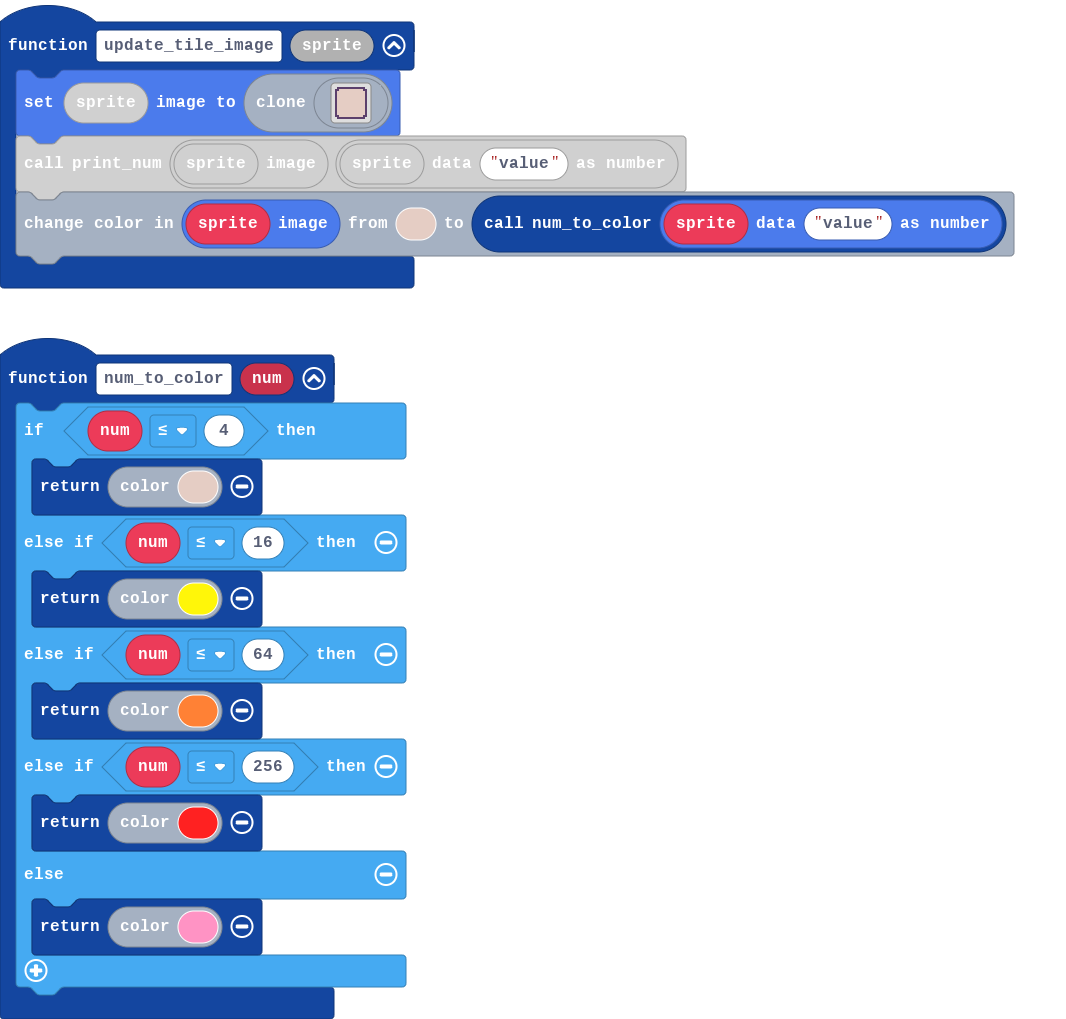
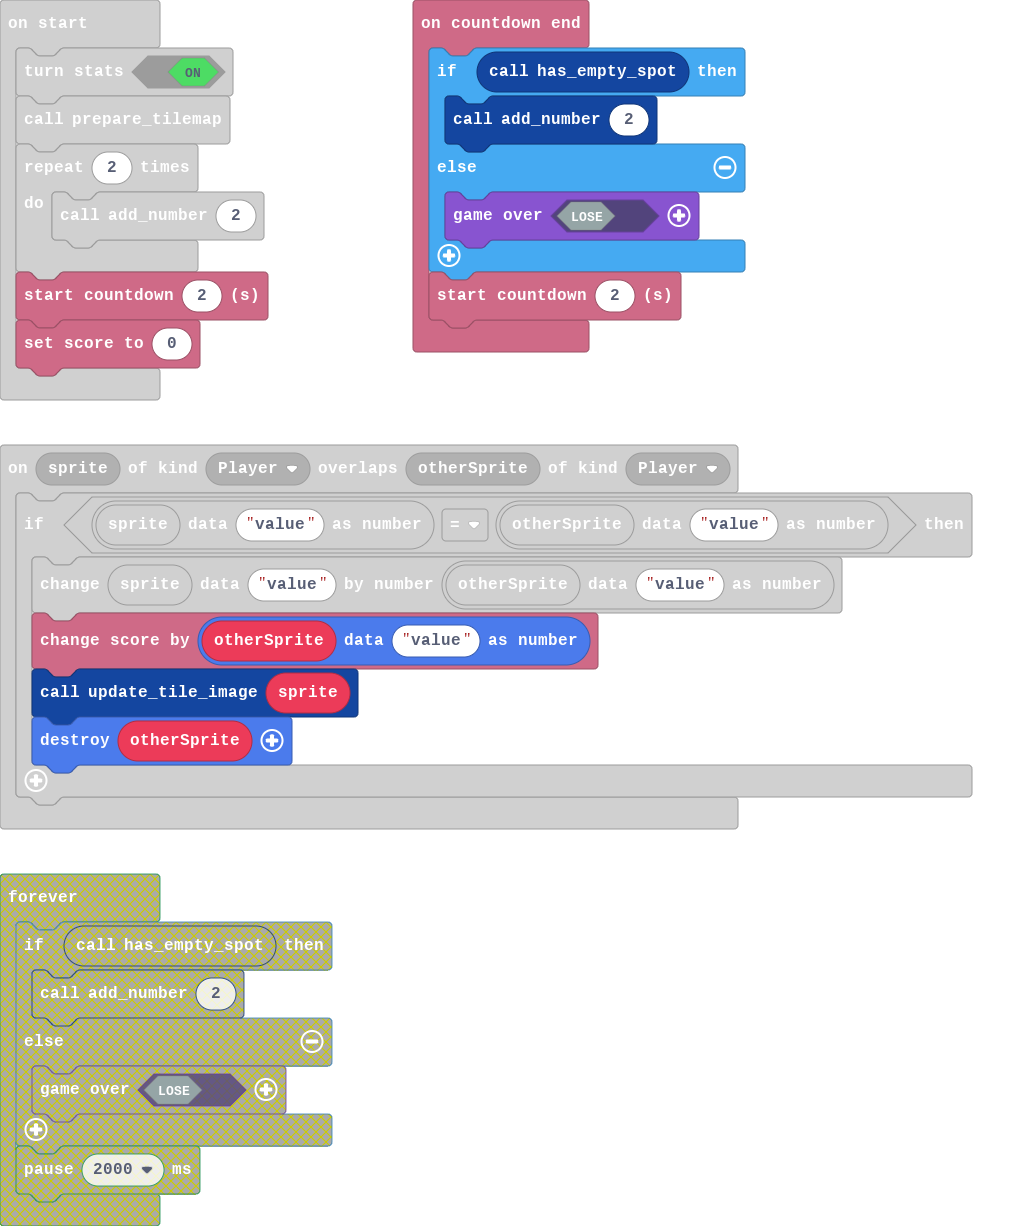
Have score and use countdown before adding block

diff --git a/main.ts b/main.ts
@@ -70,6 +70,14 @@ function move_rows (rows: any[], direction: number) {
         }
     }
 }
+info.onCountdownEnd(function () {
+    if (has_empty_spot()) {
+        add_number(2)
+    } else {
+        game.over(false)
+    }
+    info.startCountdown(2)
+})
 function move_left () {
     move_cols([
     2,
@@ -97,6 +105,7 @@ controller.down.onEvent(ControllerButtonEvent.Pressed, function () {
 sprites.onOverlap(SpriteKind.Player, SpriteKind.Player, function (sprite, otherSprite) {
     if (sprites.readDataNumber(sprite, "value") == sprites.readDataNumber(otherSprite, "value")) {
         sprites.changeDataNumberBy(sprite, "value", sprites.readDataNumber(otherSprite, "value"))
+        info.changeScoreBy(sprites.readDataNumber(otherSprite, "value"))
         update_tile_image(sprite)
         otherSprite.destroy()
     }
@@ -161,11 +170,5 @@ prepare_tilemap()
 for (let index = 0; index < 2; index++) {
     add_number(2)
 }
-forever(function () {
-    if (has_empty_spot()) {
-        add_number(2)
-    } else {
-        game.over(false)
-    }
-    pause(2000)
-})
+info.startCountdown(2)
+info.setScore(0)
